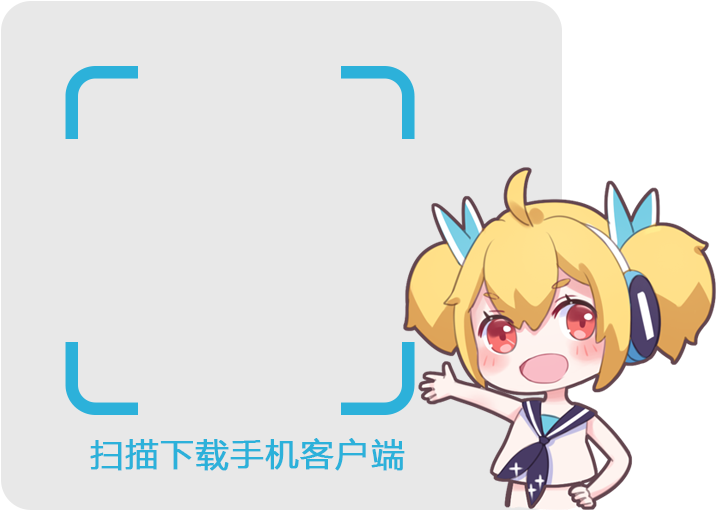
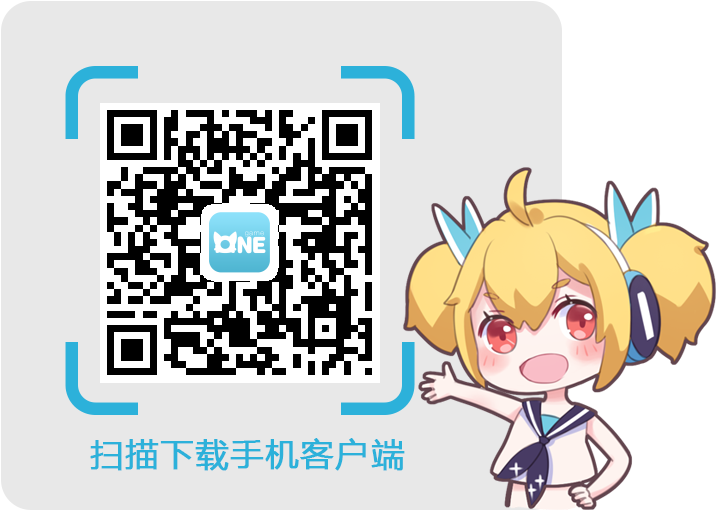
===

Changed region(s): [[0.1229, 0.2059, 0.5223, 0.7353]]

diff --git a/PC/css/ONE.css b/PC/css/ONE.css
@@ -2,38 +2,38 @@ header{
 	position: fixed;
 	top: 0;
 	width: 100%;
-	height: 3.25rem;
-	line-height: 3.25rem;
+	height:78.5px;
+	line-height:78.5px;
 	background-color: rgba(255,255,255,0.9);
 	z-index: 8;
 }
 .headImg{
-	width: 5.875rem;
-	height: 1.8rem;
+	width: 132.5px;
+	height: 38.5px;
 	background-image: url(../img/logo1.png);
 	background-position: center;
 	background-repeat:no-repeat;
 	background-size: cover;
-	margin-top: 0.725rem;
+	margin-top: 20px;
 	margin-left: 15.3vw;
 }
 .nav{
-	font-size: 14px;
+	font-size: 15px;
 	margin-right: 20vw;
 }
 .nav > div{
-	margin: 0 0.6rem;
+	margin: 0 14px;
 	cursor: pointer;
 }
 .nav > div:hover{
 	color: #2CB1DA;
-} 
+}
 .downLoad{
 	position: fixed;
 	top: 0;
 	left: 80vw;
-	height: 4.21rem;
-	width: 3.9375rem;
+	height:94.5px;
+	width:101px;
 	background-image: url(../img/download2.png);
 	background-position: center;
 	background-repeat:no-repeat;
@@ -45,32 +45,55 @@ header{
 .content{
 	position: relative;
 	width: 100%;
-	
 	height: 200vw;
-	background-image: url(../img/shouyeditu2.png);
+	background-image: url(../img/mainImg.jpg);
 	background-position: center;
 	background-repeat:no-repeat;
 	background-size: cover;
 }
 .ios,.android{
 	position: absolute;
-	width: 11.5vw;
+	width: 11.6vw;
 	height: 4vw;
 	background-position: center;
 	background-repeat:no-repeat;
 	background-size: cover;
 }
 .ios{
-	background-image: url(../img/ios3.png);
-	top: 11.2vw;
-	right: 30.5vw;
-	
-}
-.android{
-	background-image: url(../img/android2.png);
-	top: 15.6vw;
-	right: 30.5vw;
+	background-image:url(../img/ios.png);
+	top: 10.8vw;
+	right: 24.5vw;
 	cursor: pointer;
 	cursor: -ms-pointer;
 }
-
+.ios:hover{
+	background-image:url(../img/ios2.png);
+	transition:all 1s ease;
+	-moz-transition:all 1s ease;
+	-webkit-transition:all 1s ease;
+	-o-transition:all 1s ease;
+}
+.android{
+	background-image: url(../img/android2.png);
+	top: 15.3vw;
+	right: 24.5vw;
+	cursor: pointer;
+	cursor: -ms-pointer;
+}
+.android:hover{
+	background-image:url(../img/android3.png);
+	transition:all 1s ease;
+	-moz-transition:all 1s ease;
+	-webkit-transition:all 1s ease;
+	-o-transition:all 1s ease;
+}
+.qrcodeImg{
+	  position:absolute;
+		display:none;
+		top:78.5px;
+		width:358px;
+    height:255px;
+		right:7%;
+   	background:url(../img/erweimaqu.png) no-repeat center /358px 255px;
+		z-index:7;
+}

diff --git a/PC/js/ONE.js b/PC/js/ONE.js
@@ -1,15 +1,23 @@
 $(function() {
-	$('.android').on({
-		mouseover: function() {
-			$(this).css('background-image', 'url(../img/android3.png)');
-		},
-		mouseout: function() {
-			$(this).css('background-image', 'url(../img/android2.png)');
-		}
+
+  $('.downLoad').mouseover(function(){
+		$('.qrcodeImg').css('display','block');
+	});
+
+	$('.downLoad').mouseout(function(){
+			$('.qrcodeImg').css('display','none');
 	})
-	$('.android,.downLoad').click(function() {
-		window.location.href = "http://www.oneyouxi.com.cn:8000/download?data=9"
-	})
+
+
+	$('.android').click(function() {
+		window.location.href = "https://admin.oneyouxi.com.cn/www/download/onegame.apk"
+	});
+	$('.ios').click(function() {
+	 window.location.href = "https://admin.oneyouxi.com.cn/www/download/onegame.ipa"
+ });
+
+
+
 	$('.nav').children('div').eq(2).click(function() {
 		window.location.href = "about_us.html"
 	})

diff --git a/PC/html/ONE.html b/PC/html/ONE.html
@@ -11,7 +11,6 @@
 		<link rel="stylesheet" type="text/css" href="../css/ONE.css" />
 		<script src="../../Public/jquery-3.2.1.min.js" type="text/javascript" charset="utf-8"></script>
 	</head>
-
 	<body>
 		<header class="ofh">
 			<div class="headImg fl"></div>
@@ -28,6 +27,7 @@
 			</div>
 		</header>
 		<div class="downLoad fl"></div>
+		<div class="qrcodeImg"></div>
 		<div class="content">
 			<div class="ios"></div>
 			<div class="android"></div>
